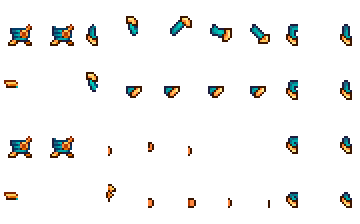
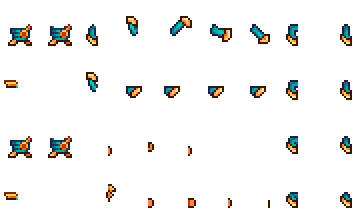
Fixed Procellarite Chestplate sprite

Changed region(s): [[0.1222, 0.5938, 0.2139, 0.7188], [0.1222, 0.0938, 0.2139, 0.2188]]

diff --git a/obj/Debug/net6.0/NimblesThrowingStuff.AssemblyInfo.cs b/obj/Debug/net6.0/NimblesThrowingStuff.AssemblyInfo.cs
@@ -13,7 +13,7 @@ using System.Reflection;
 [assembly: System.Reflection.AssemblyCompanyAttribute("NimblesThrowingStuff")]
 [assembly: System.Reflection.AssemblyConfigurationAttribute("Debug")]
 [assembly: System.Reflection.AssemblyFileVersionAttribute("1.0.0.0")]
-[assembly: System.Reflection.AssemblyInformationalVersionAttribute("1.0.0+e0cd26cc46d6b52341184ad87227319b8f0bd5c8")]
+[assembly: System.Reflection.AssemblyInformationalVersionAttribute("1.0.0+870d9ec72e29b7a55818eda0c8892285b8957b09")]
 [assembly: System.Reflection.AssemblyProductAttribute("NimblesThrowingStuff")]
 [assembly: System.Reflection.AssemblyTitleAttribute("NimblesThrowingStuff")]
 [assembly: System.Reflection.AssemblyVersionAttribute("1.0.0.0")]
